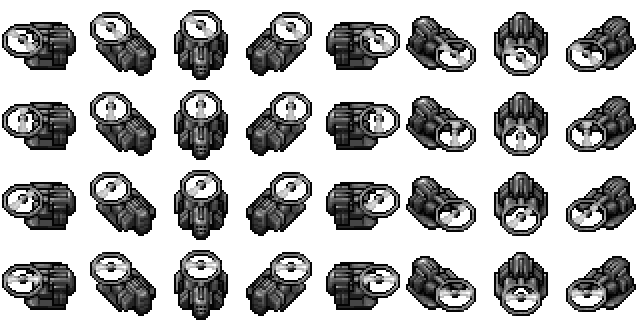
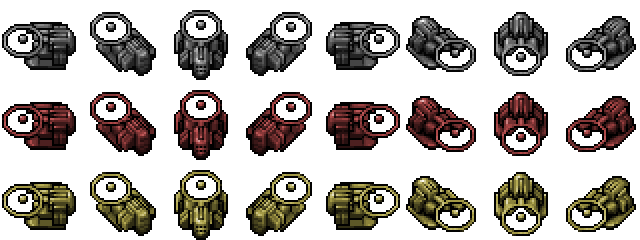
Working towards gameplay; adding maps, unit color variations, players to Model.

diff --git a/src/interfaceSlk/TestScreen.java b/src/interfaceSlk/TestScreen.java
@@ -28,20 +28,20 @@ public class TestScreen extends MenuState {
 		// TODO Auto-generated method stub
 		TiledMap t = new TiledMap("res/RageValley.tmx");
 		PathGrid pg = new PathGrid(t);
-		game.Model m = new game.Model(t, pg);
+		game.Model m = new game.Model(t, pg, 2, 0);
 		LocalRcv dummyR = new LocalRcv();
 		
 		
 		game.PlayState.i().sendInfo(m, t, pg, new Sprite(
 				new Image("res/graphics/danC/mouse.png"),
-				40, 40, 14, 1, 0, 0), 
+				40, 40, 14, 1, 0, 0, 0), 
 				new LocalCmd(dummyR), dummyR
 				);
 		
 		m.addUnit(new Unit(
 					new Sprite(
 					new Image("res/graphics/danC/tank.png"),
-					48, 56, 8, 1, -24, -27)
+					48, 56, 8, 1, -24, -27, 0)
 					, 0, 1000, 160)
 				);
 		System.out.println("Map loaded successfully");

diff --git a/src/interfaceSlk/JoinMenu.java b/src/interfaceSlk/JoinMenu.java
@@ -87,13 +87,13 @@ public class JoinMenu extends MenuState {
 			e.printStackTrace();
 		}
 		PathGrid pg = new PathGrid(t);
-		game.Model m = new game.Model(t, pg);
+		game.Model m = new game.Model(t, pg, 2, 0);
 		
 		
 		try {
 			game.PlayState.i().sendInfo(m, t, pg, new Sprite(
 					new Image("res/graphics/danC/mouse.png"),
-					40, 40, 14, 1, 0, 0), 
+					40, 40, 14, 1, 0, 0, 0), 
 					ct, ct
 					);
 		} catch (SlickException e) {
@@ -104,7 +104,7 @@ public class JoinMenu extends MenuState {
 		m.addUnit(new Unit(
 					new Sprite(
 					new Image("res/graphics/danC/tank.png"),
-					48, 56, 8, 1, -24, -27)
+					48, 56, 8, 1, -24, -27, 0)
 					, 0, 1000, 160)
 				);
 		System.out.println("Map loaded successfully");

diff --git a/src/data/Sprite.java b/src/data/Sprite.java
@@ -8,7 +8,7 @@ public class Sprite {
 	private Image[] frames;
 	private Image img;
 
-	public Sprite (Image srcimg, int xSize, int ySize, int xFrames, int yFrames, int xOffset, int yOffset){
+	public Sprite (Image srcimg, int xSize, int ySize, int xFrames, int yFrames, int xOffset, int yOffset, int downshift){
 		this.xOffset = xOffset;
 		this.yOffset = yOffset;
 		
@@ -18,7 +18,7 @@ public class Sprite {
 		for(int i = 0; i < yFrames; i++){
 			for(int j = 0; j < xFrames; j++){
 				frames[i * yFrames + j] = img.getSubImage(
-						j * xSize, i * ySize, xSize, ySize);
+						j * xSize, i * ySize + yFrames * ySize * downshift, xSize, ySize);
 			}
 		}
 	}

diff --git a/src/game/Model.java b/src/game/Model.java
@@ -16,11 +16,15 @@ public class Model {
 	private PathGrid p;
 	private Map<Integer, Unit> units;
 	int unitCap = 0;
+	Player[] players;
+	int currentPlayer;
 	
-	public Model(TiledMap m, PathGrid p) {
+	public Model(TiledMap m, PathGrid p, int numplayers, int currentPlayer) {
 		this.m = m;
 		this.p = p;
 		units = new HashMap<Integer, Unit>();
+		players = new Player[numplayers];
+		this.currentPlayer = currentPlayer;
 	}
 
 	public int addUnit(Unit unit) {

diff --git a/src/game/PlayState.java b/src/game/PlayState.java
@@ -72,6 +72,7 @@ public class PlayState extends BasicGameState{
 		m.draw(camX, camY);
 		drawSelectionBox(g);
 		drawMouse(g);
+		drawMapMeta(g);
 	}
 
 	private void drawHilights(Graphics g) {

diff --git a/src/game/CommandCard.java b/src/game/CommandCard.java
@@ -1,0 +1,10 @@
+package game;
+
+/**
+ * Class representing the set of buttons a unit offers on an interface.
+ * @author Eamonn
+ *
+ */
+public class CommandCard {
+	
+}
